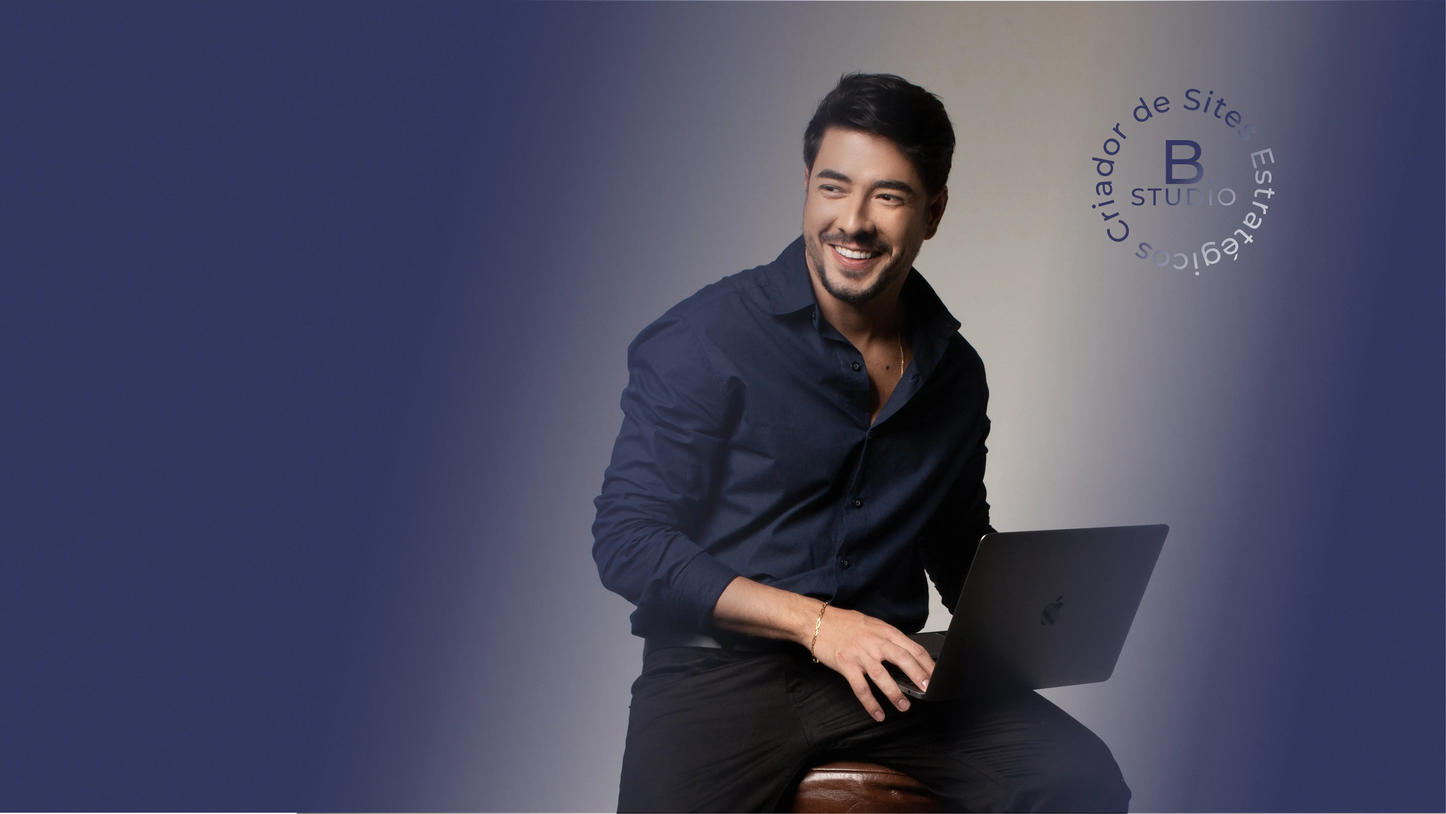
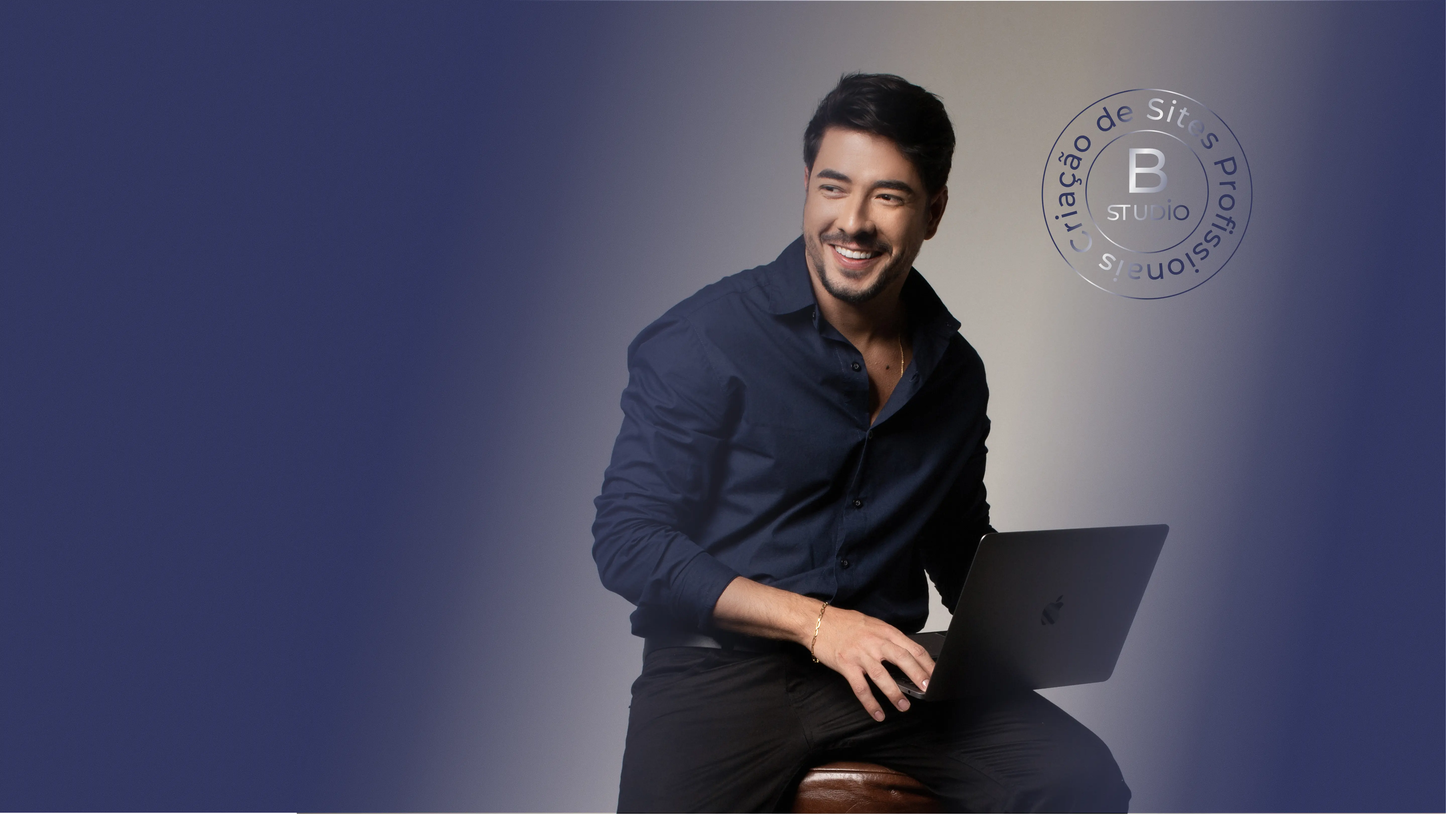
atualizacoes

Changed region(s): [[0.7188, 0.0935, 0.875, 0.3427]]

diff --git a/index.html b/index.html
@@ -401,7 +401,7 @@
                     <div class="col-lg-6 wow fadeInUp" data-wow-delay="0.1s">
                         <div class="position-relative overflow-hidden rounded h-100" style="min-height: 500px;">
                             <div class="position-relative overflow-hidden rounded h-100" style="min-height: 400px;">
-                            <img class=" w-100 h-100" src="./img/img2.png" alt="" style="object-fit: cover; border-radius: inherit;">
+                            <img class=" w-100 h-100" src="./img/img2.webp" alt="" style="object-fit: cover; border-radius: inherit;">
                         </div>
 
                         </div>

diff --git a/css/style.css b/css/style.css
@@ -165,7 +165,7 @@
 
 /*** About ***/
 .about {
-    background: linear-gradient(rgba(0, 0, 0, .1), rgba(0, 0, 0, .1)), url(../img/img4.webp) left center no-repeat;
+    background: linear-gradient(rgba(0, 0, 0, .1), rgba(0, 0, 0, .1)), url(../img/selo.webp) left center no-repeat;
     background-size: cover;
     border-radius: 8px;
 }
